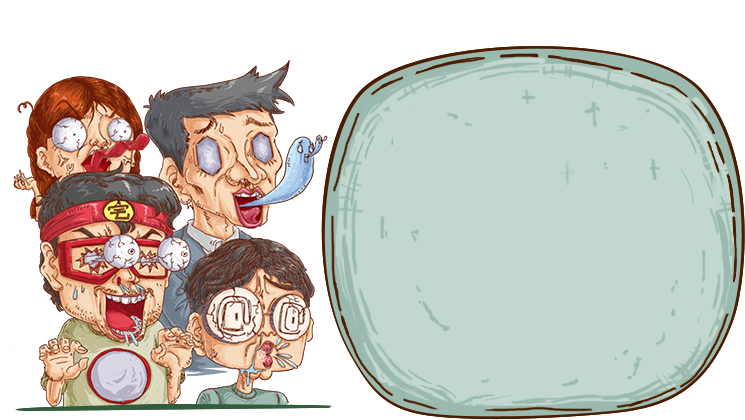
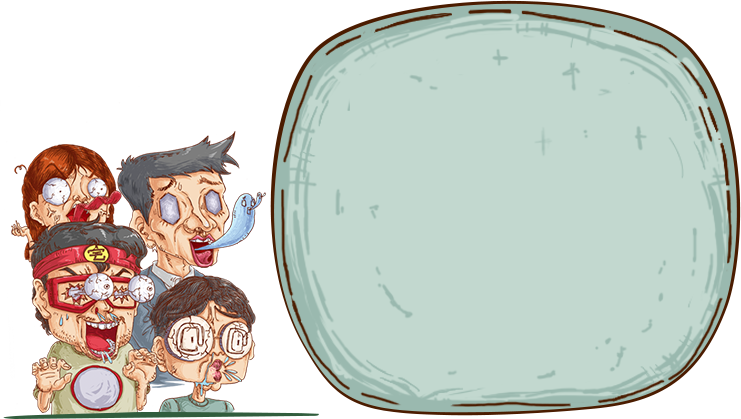
弹窗调整位置

diff --git a/src/commonClass/ResultLayer.js b/src/commonClass/ResultLayer.js
@@ -54,7 +54,7 @@ define([
             var weiboShareMenuItem = new cc.MenuItemSprite(new cc.Sprite(imgMap.weiboShare), new cc.Sprite(imgMap.weiboShare), null, _.bind(self._shareWeibo, self));
             weiboShareMenuItem.attr({ x: center.x + 353, y: 111 });
             var linkMenuItem = new cc.MenuItemSprite(new cc.Sprite(imgMap.zhangzishi), new cc.Sprite(imgMap.zhangzishi), null, _.bind(self._jumpToOther, self));
-            linkMenuItem.attr({x: center.x + 120, y: winSize.height - 390});
+            linkMenuItem.attr({x: center.x + 120 - 54, y: winSize.height - 390 - 13});
 
             var menu;
             if (isWeixin()) {
@@ -68,7 +68,7 @@ define([
             //TODO: 换用图片字体
             //var titleLabel = new cc.LabelBMFont(score, resourceFileMap.common.resultLayer.titleFont);
             var titleLabel = new cc.LabelTTF(score, "FZMiaoWuS-GB", 65);
-            titleLabel.setPosition(center.x + 118, winSize.height - 175 + 26);
+            titleLabel.setPosition(center.x + 118 - 34, winSize.height - 175 + 26 + 48);
             titleLabel.color = cc.color(0, 37, 41, 255);
             bakeLayer.addChild(titleLabel);
 
@@ -76,7 +76,7 @@ define([
             //var textLabel = new cc.LabelBMFont(getResultText(gameName, result), resourceFileMap.common.resultLayer.textFont);
             var textLabel = new cc.LabelTTF(getResultText(gameName, result), "FZMiaoWuS-GB", 36);
             textLabel.attr({anchorX: 0.5, anchorY: 1});
-            textLabel.setPosition(center.x + 120, winSize.height - 221 + 40);
+            textLabel.setPosition(center.x + 120 - 20, winSize.height - 221 + 40 + 65);
             textLabel.color = cc.color(0, 37, 41, 255);
             bakeLayer.addChild(textLabel);
 

diff --git a/src/commonClass/GuideDialog.js b/src/commonClass/GuideDialog.js
@@ -58,13 +58,16 @@ define([
             //var textLabel = new cc.LabelBMFont(text, resourceFileMap.common.guideDialog.textFont);
             var textLabel = new cc.LabelTTF(text, "FZMiaoWuS-GB", 33);
             textLabel.attr({anchorX: 0.5, anchorY: 0.5});
-            textLabel.setPosition(center.x, winSize.height - 300);
+            textLabel.setPosition(center.x, winSize.height - 315);
             textLabel.color = cc.color(0, 37, 41, 255);
             dialogLayer.addChild(textLabel);
 
             dialogLayer.bake();
 
             this._animate();
+
+            //TODO: for debug
+            //onButtonClick();
         },
         _animate: function () {
             var dialogLayer = this._dialogLayer;
